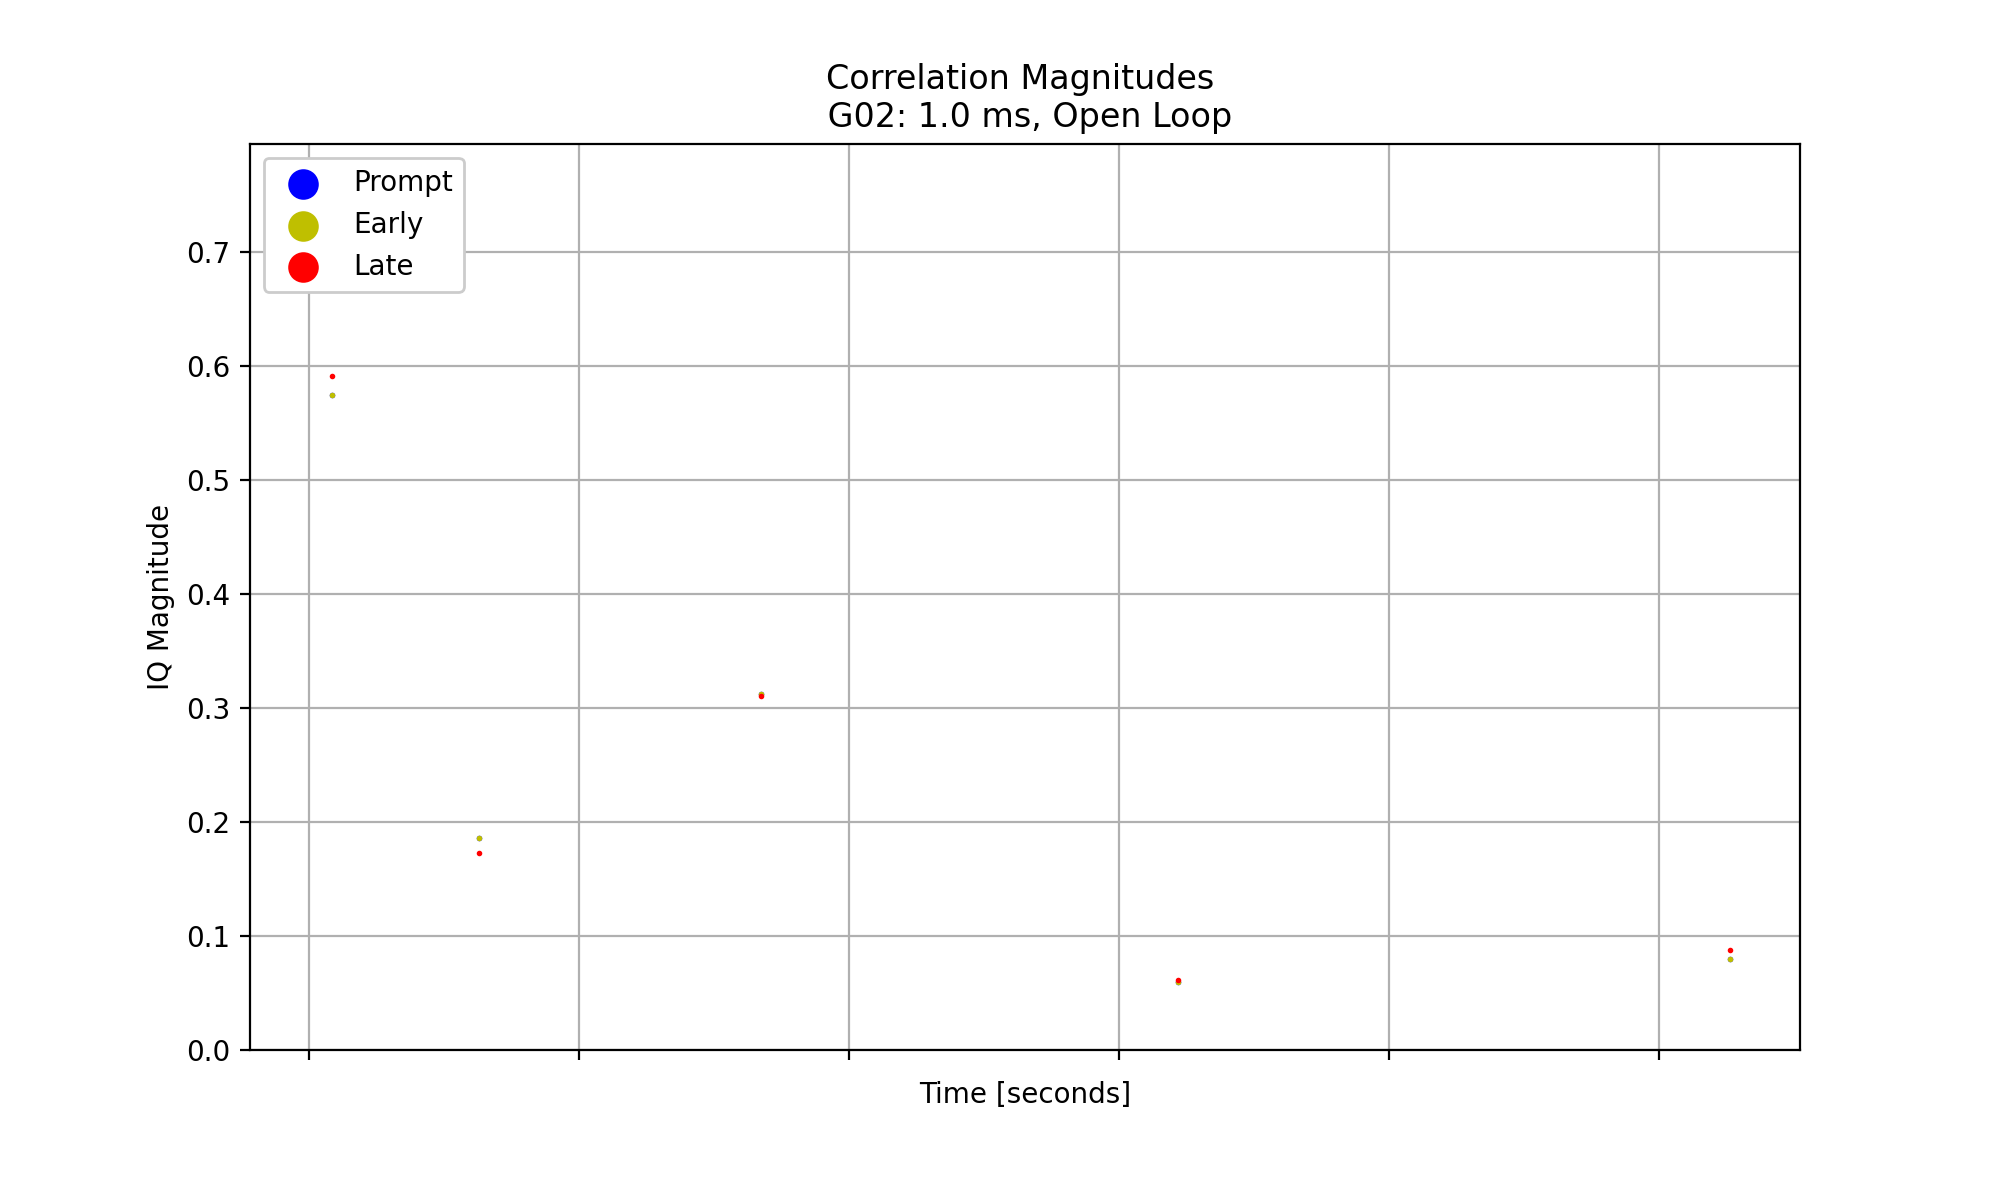
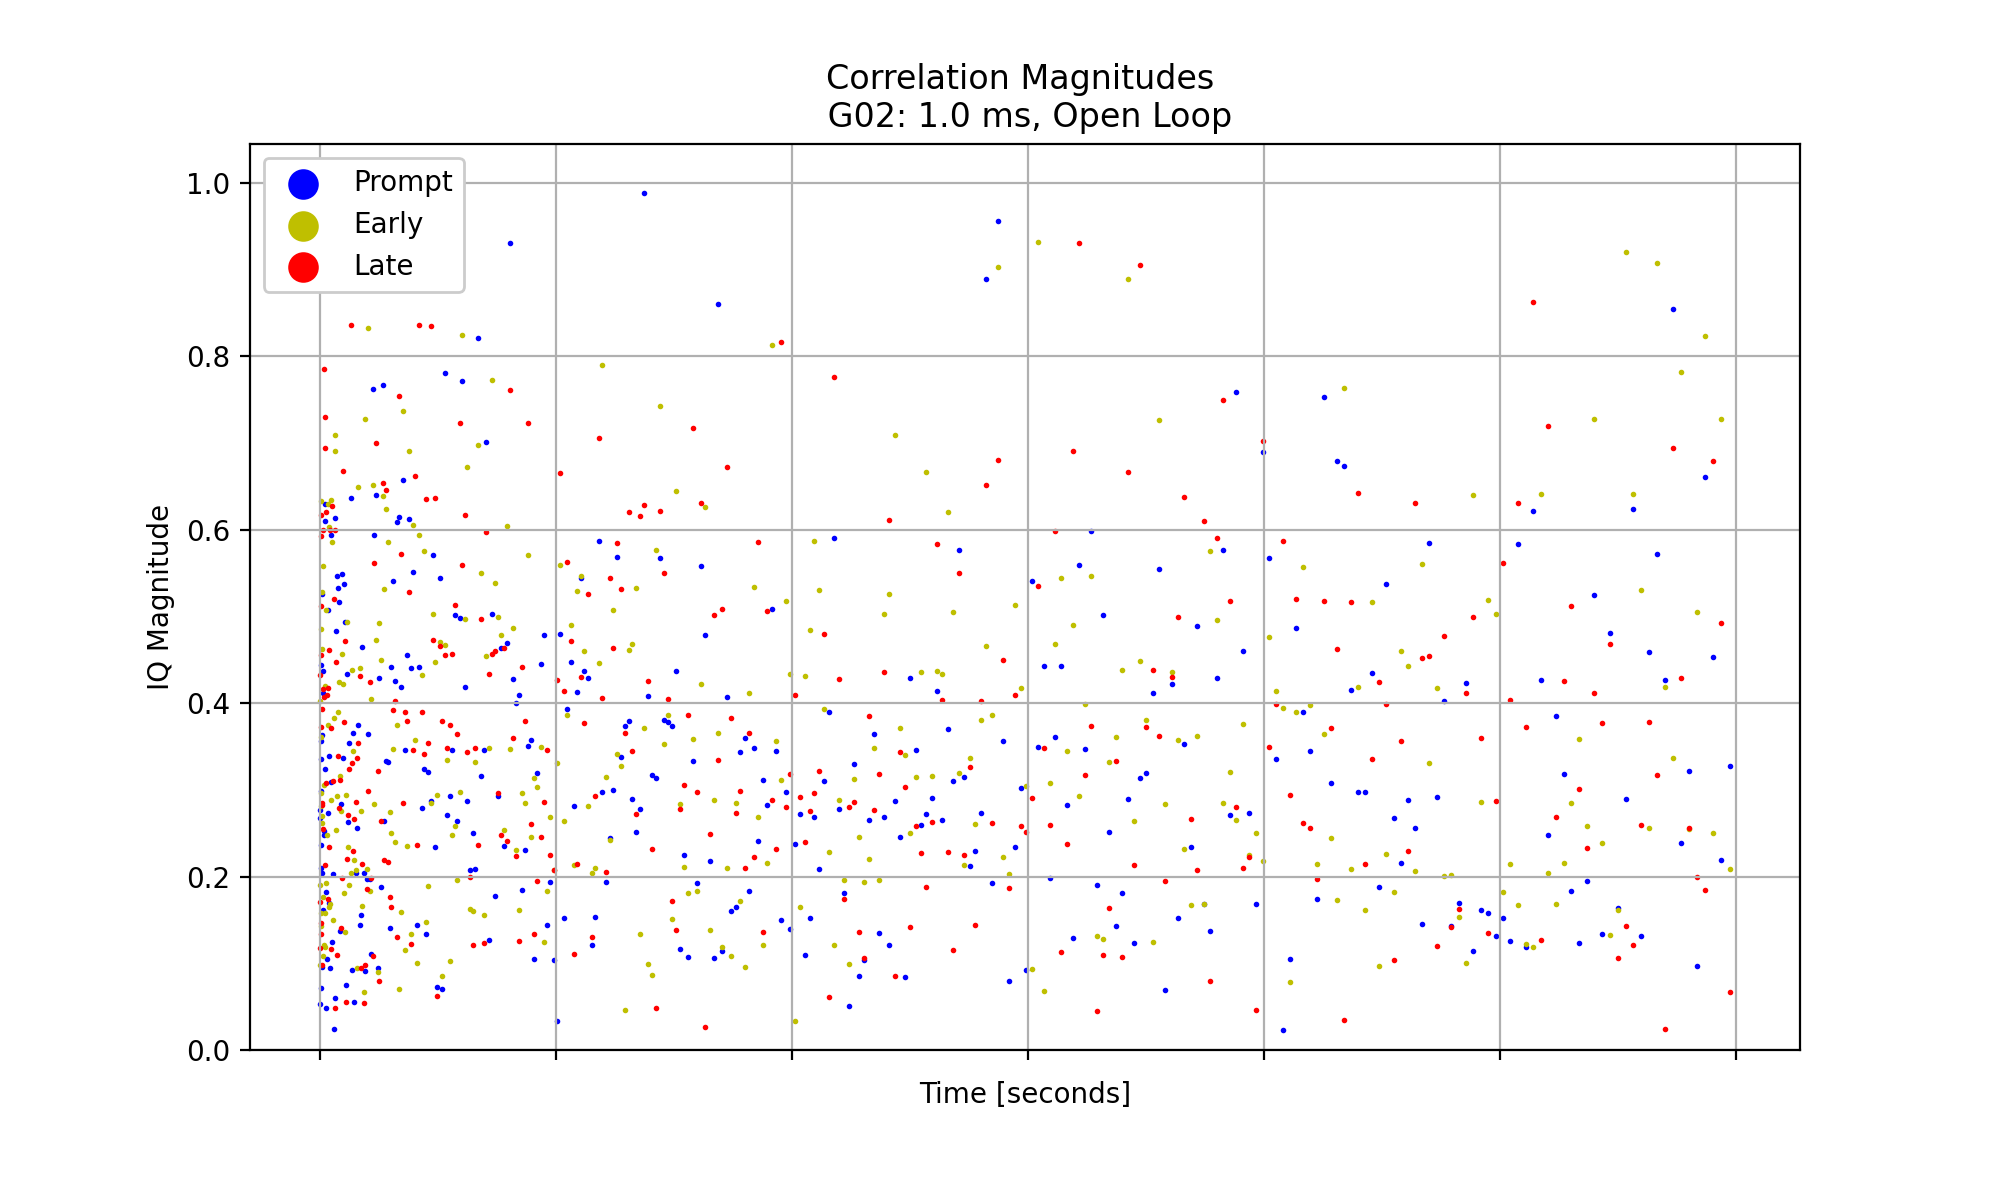
got some unfiltered phase determination stuff working!

diff --git a/project-2-track.py b/project-2-track.py
@@ -67,6 +67,8 @@ def track_GPS_L1CA_signal_open(prn, source_params, acq_sample_index, code_phase_
     tau = tau[start_idx:]
     w = w[start_idx:]
     t_OL= t_OL[start_idx:]
+    model_samp_rate = numpy.round(1 / (numpy.mean( numpy.diff( t_OL ) )))
+    sampling_ratio = source_params['samp_rate'] / model_samp_rate    
     
     # Here we define the "tracking block size" as an integer multiple of the L1CA code period.
     # Nominally, the tracking block size will be some multiple of 1 millisecond, and is equal to the
@@ -116,21 +118,25 @@ def track_GPS_L1CA_signal_open(prn, source_params, acq_sample_index, code_phase_
     doppler = doppler_acq
 
     sample_index = start_sample
-    block_index = 0
+    # block_index = 0
+    model_idx = 0
 
     # Open the IF sample file
     with open(source_params['filepath'], 'rb') as f:
-        
         for block_index in range(N_blocks):
             
+            
             # 0. end the loop if you're at the end of the file
-            if sample_index + N_block_samples >= len(t_OL):
+            if sample_index + N_block_samples >= source_params['file_length'] or model_idx > len(t_OL):
                 break
             print('\r {0: >4.1f}'.format(sample_index / source_params['samp_rate']), end='')
 
             # 1. Get the next block of samples of the data
             block = sample_loader.generate_sample_block(f, sample_index, N_block_samples)
-            
+            code_phase = tau[model_idx]
+            doppler = w[model_idx]
+            w_epl = doppler * 2 * pi * block_time
+  
             # 2. Reference Generation and Correlation
             #  For efficiency, this step is broken down into carrier wipeoff, code wipeoff, and
             # summation.  This process is equivalent to generating complete references and
@@ -144,59 +150,64 @@ def track_GPS_L1CA_signal_open(prn, source_params, acq_sample_index, code_phase_
             carrier_conj = numpy.cos(phi) - 1j * numpy.sin(phi)     # conjugate of the carrier
             block_wo_carrier = block * carrier_conj                 # Mixing down to baseband for both I and Q bands
             
-            # # create signal model
-            # sample_idx = numpy.arange(sample_index,(sample_index+N_block_samples),dtype=int)
-            # tau_block = numpy.array(tau[sample_idx], dtype='int')
-            # w_block = w[sample_idx]
-            # code_seq_model = 1 - 2 * code_seq[tau_block]
-            # ref_sig = (numpy.cos(w_block) - 1j * numpy.sin(w_block)) * code_seq_model
-            
             # 2b. Code wipeoff and summation
             #  Here we run a brief for-loop to obtain the early, late, and promt correlator outputs. 
             epl_correlations = []
             for chip_delay in [epl_chip_spacing, -epl_chip_spacing, 0 ]:                                             # Early, prompt, and late correlator timing
                 # reference signal generation
-                tau_idx_start = (sample_index + chip_delay) # start index of block, + chip delay
-                tau_idx_end = (tau_idx_start + N_block_samples)                             # end index of block  
-                tau_idx_start, tau_idx_end = int(tau_idx_start), int(tau_idx_end)
-                tau_idx = numpy.arange(tau_idx_start,tau_idx_end,dtype=int)
+                # tau_idx_start = (sample_index + chip_delay) # start index of block, + chip delay
+                # tau_idx_end = (tau_idx_start + N_block_samples)                             # end index of block  
+                # tau_idx_start, tau_idx_end = int(tau_idx_start), int(tau_idx_end)
+                # tau_idx = numpy.arange(tau_idx_start,tau_idx_end,dtype=int)
+                # chip_indices = numpy.array(tau[tau_idx],dtype=int)
+
+               chip_indices = (code_phase + chip_delay + code_rate * block_time).astype(int) % L1CA_CODE_LENGTH    # indices of relevant chips in the sample
+               code_samples = 1 - 2 * code_seq[chip_indices]                                                       # Code samples, ranging from [-1,1]
+               ref_signal = code_samples * (numpy.cos(w_epl) + 1j*numpy.sin(w_epl))
                                 
-                chip_indices = numpy.array(tau[tau_idx],dtype=int)
-                code_samples = 1 - 2 * code_seq[chip_indices]
-                                
-                epl_correlations.append(numpy.mean(block_wo_carrier * code_samples))                                # performing the correlation
-            
+               epl_correlations.append(numpy.mean(block_wo_carrier * ref_signal))                                # performing the correlation
             early, late, prompt = epl_correlations # result of the correlation
              
             # 3. Use discriminators to estimate state errors. This step will not be a part of the open loop         
             # 3a. Compute code phase error using early-minus-late discriminator. This is based off of Lecture 06, slide 7           
             code_phase_error = epl_chip_spacing * (abs(early) - abs(late)) / (abs(early) + abs(late) + 2*abs(prompt))
-            code_phase = tau + code_phase_error
-
+            unfiltered_code_phase = code_phase + code_phase_error
+            
             # 3b. Compute phase error (in cycles) using appropriate phase discriminator
             # (I know greek letters are typically in radians, but make sure `delta_theta` is in cycles)
             delta_theta = numpy.arctan(prompt.imag / prompt.real) / (2*pi)
             
             # Note: the phase error `delta_theta` is actually equal to:
             # `carr_phase_error + integration_time + doppler_error / 2`
+            carr_phase = 0
             carr_phase_error = delta_theta
-            carr_phase = w + carr_phase_error   
+            unfiltered_carr_phase = carr_phase + carr_phase_error   
             
-            # print(carr_phase)
+            # how do we create this
+            filtered_carr_phase = 0
+            filtered_code_phase = 0
+            filtered_doppler = 0
             
             # 5. Save our tracking loop outputs
             outputs['sample_index'][block_index] = sample_index
             outputs['early'][block_index] = early
             outputs['prompt'][block_index] = prompt
             outputs['late'][block_index] = late
-            outputs['code_phase'][block_index] = code_phase[0]
-            outputs['carr_phase'][block_index] = carr_phase[0]
+            outputs['code_phase'][block_index] = code_phase
+            outputs['unfiltered_code_phase'][block_index] = unfiltered_code_phase
+            outputs['filtered_code_phase'][block_index] = filtered_code_phase
+            outputs['carr_phase'][block_index] = carr_phase
+            outputs['unfiltered_carr_phase'][block_index] = unfiltered_carr_phase
+            outputs['filtered_carr_phase'][block_index] = filtered_carr_phase
             outputs['doppler'][block_index] = doppler
+            outputs['filtered_doppler'][block_index] = filtered_doppler
             
             # updating indices 
             target_code_phase = (block_index + 1) * block_length_chips
-            sample_step = int((target_code_phase - code_phase[0]) * source_params['samp_rate'] / code_rate)
+            sample_step = int((target_code_phase - code_phase) * source_params['samp_rate'] / code_rate)
             sample_index += sample_step
+            model_idx = int(sample_index / sampling_ratio)    
+            print("\n model idx: ", model_idx)
 
     for key in output_keys:
         outputs[key] = outputs[key][:block_index]
